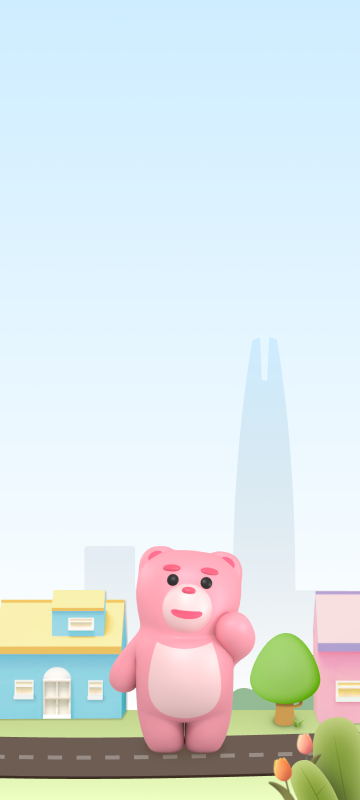
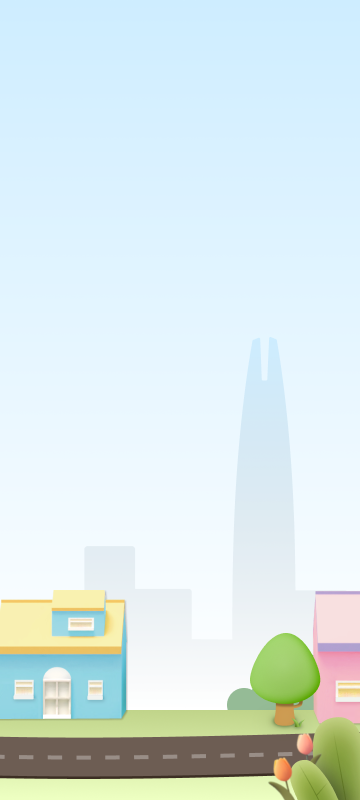
모바일

Changed region(s): [[0.3056, 0.6562, 0.7333, 0.9688]]

diff --git a/pages/m/index.vue b/pages/m/index.vue
@@ -19,10 +19,13 @@
               </div>
             </div>
           </section>
-          <section class="section" >
+          <section class="section">
             <div class="slide fp-noscroll" data-anchor="slide1">
               <div class="contents">
-                <img class="roads" src="@/assets/m_images/main/getbelly_road_ko_1.png" />
+                <img
+                  class="roads"
+                  src="@/assets/m_images/main/getbelly_road_ko_1.png"
+                />
                 <div class="text-con">
                   <div
                     v-once
@@ -52,12 +55,18 @@
             </div>
             <div class="slide fp-noscroll" data-anchor="slide2">
               <div class="contents">
-                <img class="roads"  src="@/assets/m_images/main/getbelly_road_ko_2.png" />
+                <img
+                  class="roads"
+                  src="@/assets/m_images/main/getbelly_road_ko_2.png"
+                />
               </div>
             </div>
             <div class="slide fp-noscroll" data-anchor="slide3">
               <div class="contents">
-                <img class="roads" src="@/assets/m_images/main/getbelly_road_ko_3.png" />
+                <img
+                  class="roads"
+                  src="@/assets/m_images/main/getbelly_road_ko_3.png"
+                />
                 <div class="text-con">
                   <div
                     v-once
@@ -463,9 +472,9 @@ export default {
       footClass: "",
       charTop: "50%",
       options: {
-        controlArrows:false,
-        loopHorizontal:false,
-        verticalCentered:false,
+        controlArrows: false,
+        loopHorizontal: false,
+        verticalCentered: false,
         keyboardScrolling: false,
         css3: true,
         scrollingSpeed: 1500,
@@ -664,8 +673,8 @@ export default {
 
 .slide {
   width: 100vw;
-  transform:translate3d(0,0,0);
-  -webkit-transform:translate3d(0,0,0);
+  transform: translate3d(0, 0, 0);
+  -webkit-transform: translate3d(0, 0, 0);
   ::v-deep .fp-tableCell {
     position: relative;
     img {
@@ -835,20 +844,11 @@ footer {
   background: #34343d;
   box-sizing: border-box;
   .inner {
-    display: flex;
-    justify-content: center;
-    align-items: flex-start;
     .footer-logo {
-      flex: 0 0 163px;
       width: 163px;
       height: auto;
-      img {
-        position: relative;
-      }
     }
     .footer-contents {
-      flex: 1 1 auto;
-      padding-left: 158px;
       .footer-list {
         li {
           position: relative;
@@ -862,23 +862,6 @@ footer {
           a {
             text-decoration: underline;
             text-underline-position: under;
-          }
-          &::after {
-            content: "";
-            display: inline-block;
-            position: absolute;
-            top: 3px;
-            right: 0;
-            width: 1px;
-            height: 18px;
-            background: rgba(255, 255, 255, 0.2);
-            box-sizing: border-box;
-            vertical-align: middle;
-          }
-          &:last-child {
-            &::after {
-              display: none;
-            }
           }
         }
         & + .footer-list {
@@ -1041,7 +1024,9 @@ footer {
   display: none;
 }
 .roads {
-  position: absolute;bottom:0;width:100%;
+  position: absolute;
+  bottom: 0;
+  width: 100%;
 }
 
 .slide1-cloud-img {

diff --git a/assets/scss/common_m.scss b/assets/scss/common_m.scss
@@ -196,53 +196,43 @@ body {
 
   .story-modal {
     .modal-container {
-      width: 1000px !important;
-      height: 575px !important;
-      border-radius: 40px;
-      background-image: url("assets/images/main/img_storybook_book.png");
-      background-size: contain;
-      background-position: center;
-      background-repeat: no-repeat;
-      background-color: transparent !important;
-      box-shadow: none !important;
-      position: relative;
-
+      width: 100% !important;
+      height: 100%;
+      background: #ffd5ec !important;
+      overflow-y: scroll;
+      position: absolute;
+      top: 0;
+      left: 0;
       .modal-inner {
+        .modal-header {
+          div {
+            padding-top: 118px;
+            text-align: center;
+            font-family: "Sandoll Odongtong", sans-serif;
+            font-weight: 400;
+            font-size: 40px;
+            line-height: 52px;
+            color: $white;
+          }
+        }
+        .modal-body {
+          padding: 0 20px;
+        }
         .story {
+          margin-top: 50px;
+          background: #fff7eb;
+          border-radius: 30px;
+          padding: 85px 20px;
           .box {
-            position: absolute;
-            width: 100%;
-            top: 50%;
-            left: 50%;
-            display: flex;
-            justify-content: center;
-            align-items: center;
-            transform: translate(-50%, -50%);
-
             .left-img {
-              opacity: 0;
-              width: 400px;
-              height: 320px;
-              transform: translateX(-50px);
-              transition: all 0.5s ease-in-out;
             }
-
             .txt {
-              transition: all 0.5s ease-in-out;
-              opacity: 0;
-              transform: translateX(50px);
-              max-width: 45%;
-              margin-left: 50px;
-              padding-right: 45px;
-              padding-top: 20px;
-
               h3 {
                 font-family: "Sandoll Odongtong", sans-serif;
                 font-weight: 400;
                 font-size: 30px;
                 line-height: 45px;
               }
-
               p {
                 font-family: "PoorStory Regular", sans-serif;
                 font-weight: 400;
@@ -370,8 +360,8 @@ body {
 
   .road-modal {
     .modal-container {
-      width: 640px !important;
-      border-radius: 40px;
+      width: 100% !important;
+      height: 100% !important;
       position: relative;
 
       .modal-inner {
@@ -493,9 +483,8 @@ body {
 
   .info-modal {
     .modal-container {
-      width: 820px !important;
-      border-radius: 40px;
-      margin: 40px auto 0 !important;
+      width: 100% !important;
+      height: 100% !important;
       background: url("assets/images/main/info_modal_bg.png") right no-repeat;
       padding: 40px 0;
       position: absolute;

diff --git a/components/MobileHeader.vue b/components/MobileHeader.vue
@@ -51,7 +51,7 @@
           </button>
           <ul class="anchor-nav">
             <li>
-              <button id="show-modal" @click="storyModal">BELLY FAQ</button>
+              <button id="show-modal" @click="storyModal">STORY BOOK</button>
             </li>
             <li data-menuanchor="firstSection">
               <a href="#bellyRoad/slide1" title="GET BELLY">GET BELLY</a>
@@ -75,7 +75,7 @@
 
     <!--STORY MODAL-->
     <modal v-if="showStoryModal" @close="closeStoryModal" class="story-modal">
-      <div slot="header"></div>
+      <div slot="header">STORY<br />BOOK</div>
       <div slot="body">
         <div class="story">
           <div id="st_1" class="box" :class="{ on: currIndi === 1 }">
@@ -198,60 +198,6 @@
                 어떤 서프라이즈를 가져다 줄까?
               </h3>
             </div>
-          </div>
-          <div class="indicator">
-            <div class="indi" @click="currIndi = 1">
-              <img
-                v-if="currIndi === 1"
-                src="@/assets/images/main/img_storybook_bookmark_on.png"
-              />
-              <img
-                v-else
-                src="@/assets/images/main/img_storybook_bookmark_off.png"
-              />
-            </div>
-            <div class="indi" @click="currIndi = 2">
-              <img
-                v-if="currIndi === 2"
-                src="@/assets/images/main/img_storybook_bookmark_on.png"
-              />
-              <img
-                v-else
-                src="@/assets/images/main/img_storybook_bookmark_off.png"
-              />
-            </div>
-            <div class="indi" @click="currIndi = 3">
-              <img
-                v-if="currIndi === 3"
-                src="@/assets/images/main/img_storybook_bookmark_on.png"
-              />
-              <img
-                v-else
-                src="@/assets/images/main/img_storybook_bookmark_off.png"
-              />
-            </div>
-            <div class="indi" @click="currIndi = 4">
-              <img
-                v-if="currIndi === 4"
-                src="@/assets/images/main/img_storybook_bookmark_on.png"
-              />
-              <img
-                v-else
-                src="@/assets/images/main/img_storybook_bookmark_off.png"
-              />
-            </div>
-          </div>
-          <div class="arrow">
-            <span
-              class="prev"
-              :class="{ on: currIndi > 1 }"
-              @click="storySlidePrev()"
-            ></span>
-            <span
-              class="next"
-              :class="{ on: currIndi < 4 }"
-              @click="storySlideNext()"
-            ></span>
           </div>
         </div>
       </div>

diff --git a/components/Header.vue b/components/Header.vue
@@ -43,10 +43,26 @@
           </button>
           <transition name="fade">
             <div class="lang-list" v-if="this.showLang">
-              <a @click="openLang();$store.commit('setKOR');" :class="{'nuxt-link-active':$store.getters.getLocale === 'KOR'}">
+              <a
+                @click="
+                  openLang();
+                  $store.commit('setKOR');
+                "
+                :class="{
+                  'nuxt-link-active': $store.getters.getLocale === 'KOR',
+                }"
+              >
                 KOR
               </a>
-               <a @click="openLang();$store.commit('setENG');" :class="{'nuxt-link-active':$store.getters.getLocale === 'ENG'}">
+              <a
+                @click="
+                  openLang();
+                  $store.commit('setENG');
+                "
+                :class="{
+                  'nuxt-link-active': $store.getters.getLocale === 'ENG',
+                }"
+              >
                 ENG
               </a>
             </div>
@@ -76,14 +92,12 @@
                 <template #cont="{ item }">
                   <template v-if="$store.getters.getLocale === 'ENG'">
                     {{ item.engCont }}
-                    <span class="pdf" v-if="item.engPdfUrl">
-                      <a href="" download=""></a>
-                    </span>
+                    <button @click="downloadPdf(2, 'ENG')"></button>
                   </template>
                   <template v-else>
                     {{ item.cont }}
                     <span class="pdf" v-if="item.pdfUrl">
-                      <a href="" download=""></a>
+                      <button @click="downloadPdf(2, 'KOR')"></button>
                     </span>
                   </template>
                 </template>

diff --git a/components/Footer.vue b/components/Footer.vue
@@ -18,7 +18,7 @@
             <li>Hosting Service Provider: Woori Home Shopping</li>
             <li>Affiliates & Inquiry: master@lotteimall.com</li>
             <li>
-              <nuxt-link to="ENG/terms" target="_blank">
+              <nuxt-link to="/terms" target="_blank">
                 Terms of Service
               </nuxt-link>
             </li>
